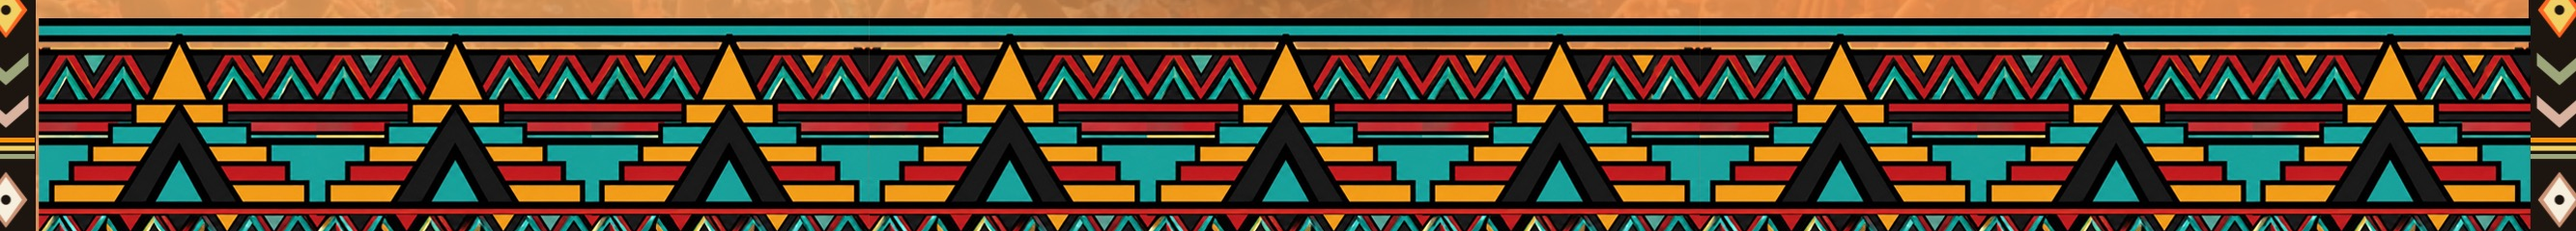
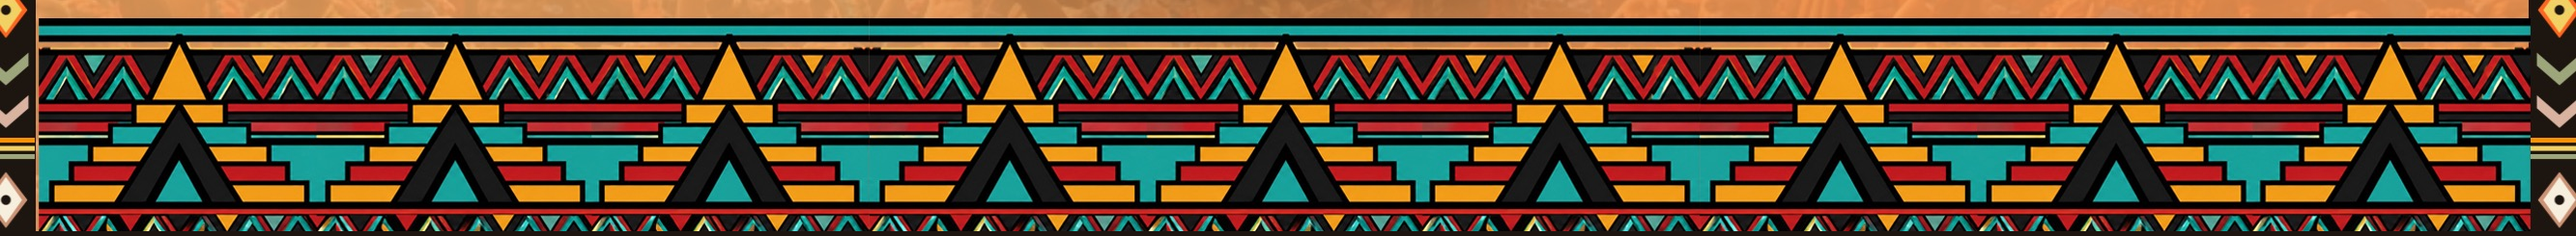
Integrate borders into hero band images to ensure a seamless appearance
Remove CSS borders from hero band styles and update image assets to include integrated borders.

Replit-Commit-Author: Agent
Replit-Commit-Session-Id: e2594b98-200e-49a8-9c1f-391d2181b889
Replit-Commit-Checkpoint-Type: full_checkpoint
Replit-Commit-Event-Id: 1c61f13d-100f-497a-930f-b898202c49e2
Replit-Commit-Screenshot-Url: https://storage.googleapis.com/screenshot-production-us-central1/ef1ab748-c4a9-44e3-95f6-644c84ff6db3/e2594b98-200e-49a8-9c1f-391d2181b889/ikGdAOU
Replit-Helium-Checkpoint-Created: true

diff --git a/artifacts/fmly-bzns/src/index.css b/artifacts/fmly-bzns/src/index.css
@@ -560,16 +560,8 @@ button[type="submit"]:hover { background: var(--orange); }
   position: relative;
   z-index: 1;
 }
-.heroBand--top    {
-  background-image: url('/hero-band-top.png');
-  border-top: 4px solid var(--black);
-  margin-bottom: .5rem;
-}
-.heroBand--bottom {
-  background-image: url('/hero-band-bottom.png');
-  border-bottom: 4px solid var(--black);
-  margin-top: .5rem;
-}
+.heroBand--top    { background-image: url('/hero-band-top.png');    margin-bottom: .5rem; }
+.heroBand--bottom { background-image: url('/hero-band-bottom.png'); margin-top: .5rem; }
 
 /* ── Mobile: thinner bands ── */
 @media (max-width: 640px) {
